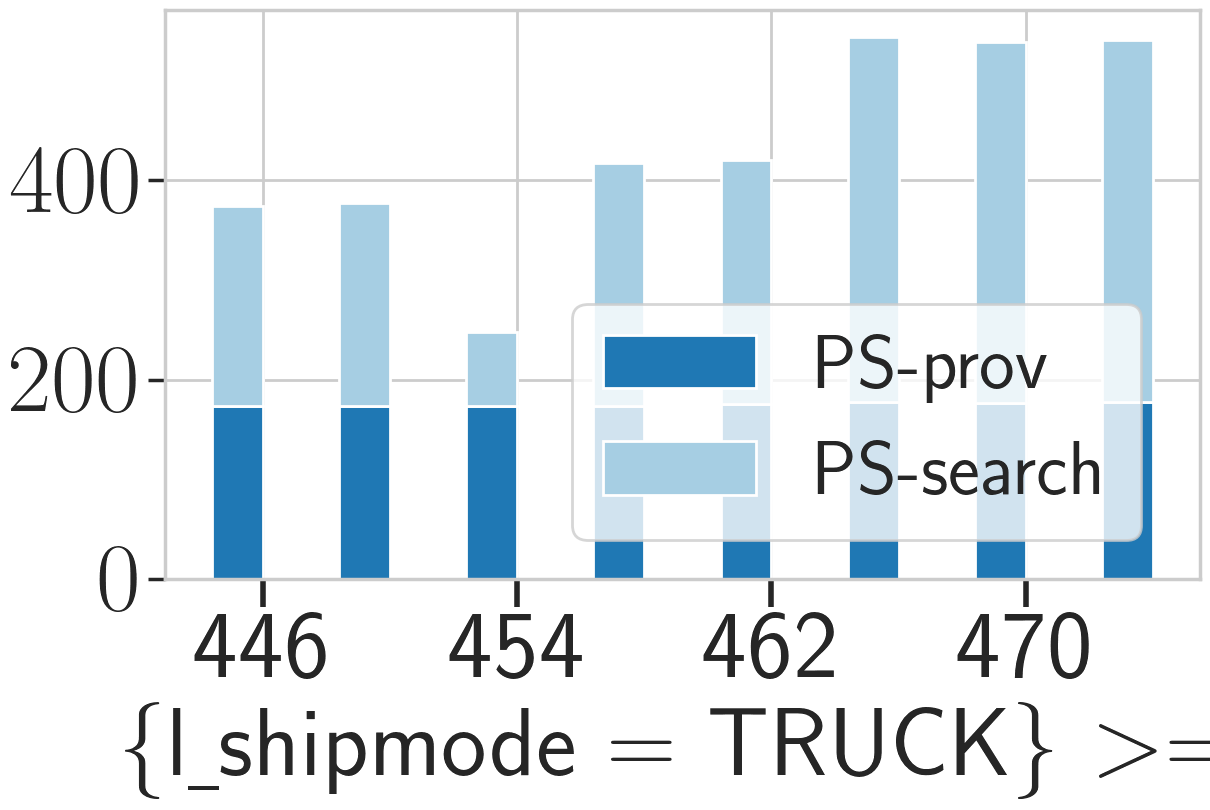
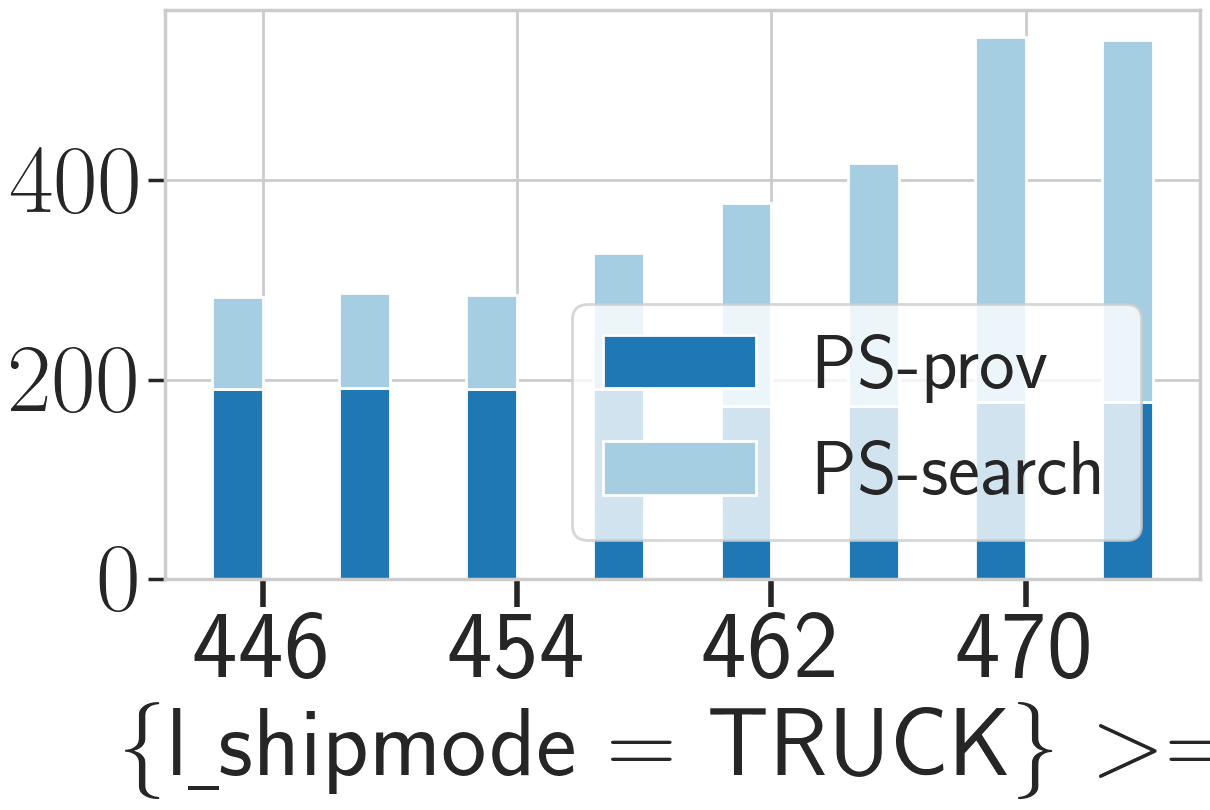
10G constraint change q3 refine

diff --git a/Experiment/TPCH/10G/constraint_change/q3_refine/constraint_change_q3_refine.py b/Experiment/TPCH/10G/constraint_change/q3_refine/constraint_change_q3_refine.py
@@ -41,7 +41,7 @@ def run_constraint(q, c):
     result_output = open(result_output_file, "w")
     result_output.write("selection file, result\n")
 
-    for i in range(1, 9):
+    for i in range(-6, 1, 2):
         print("constraint {}\n".format(i))
         constraint_file = r"./constraint_" + c + str(i) + ".json"
         print("========================== provenance search ===================================")
